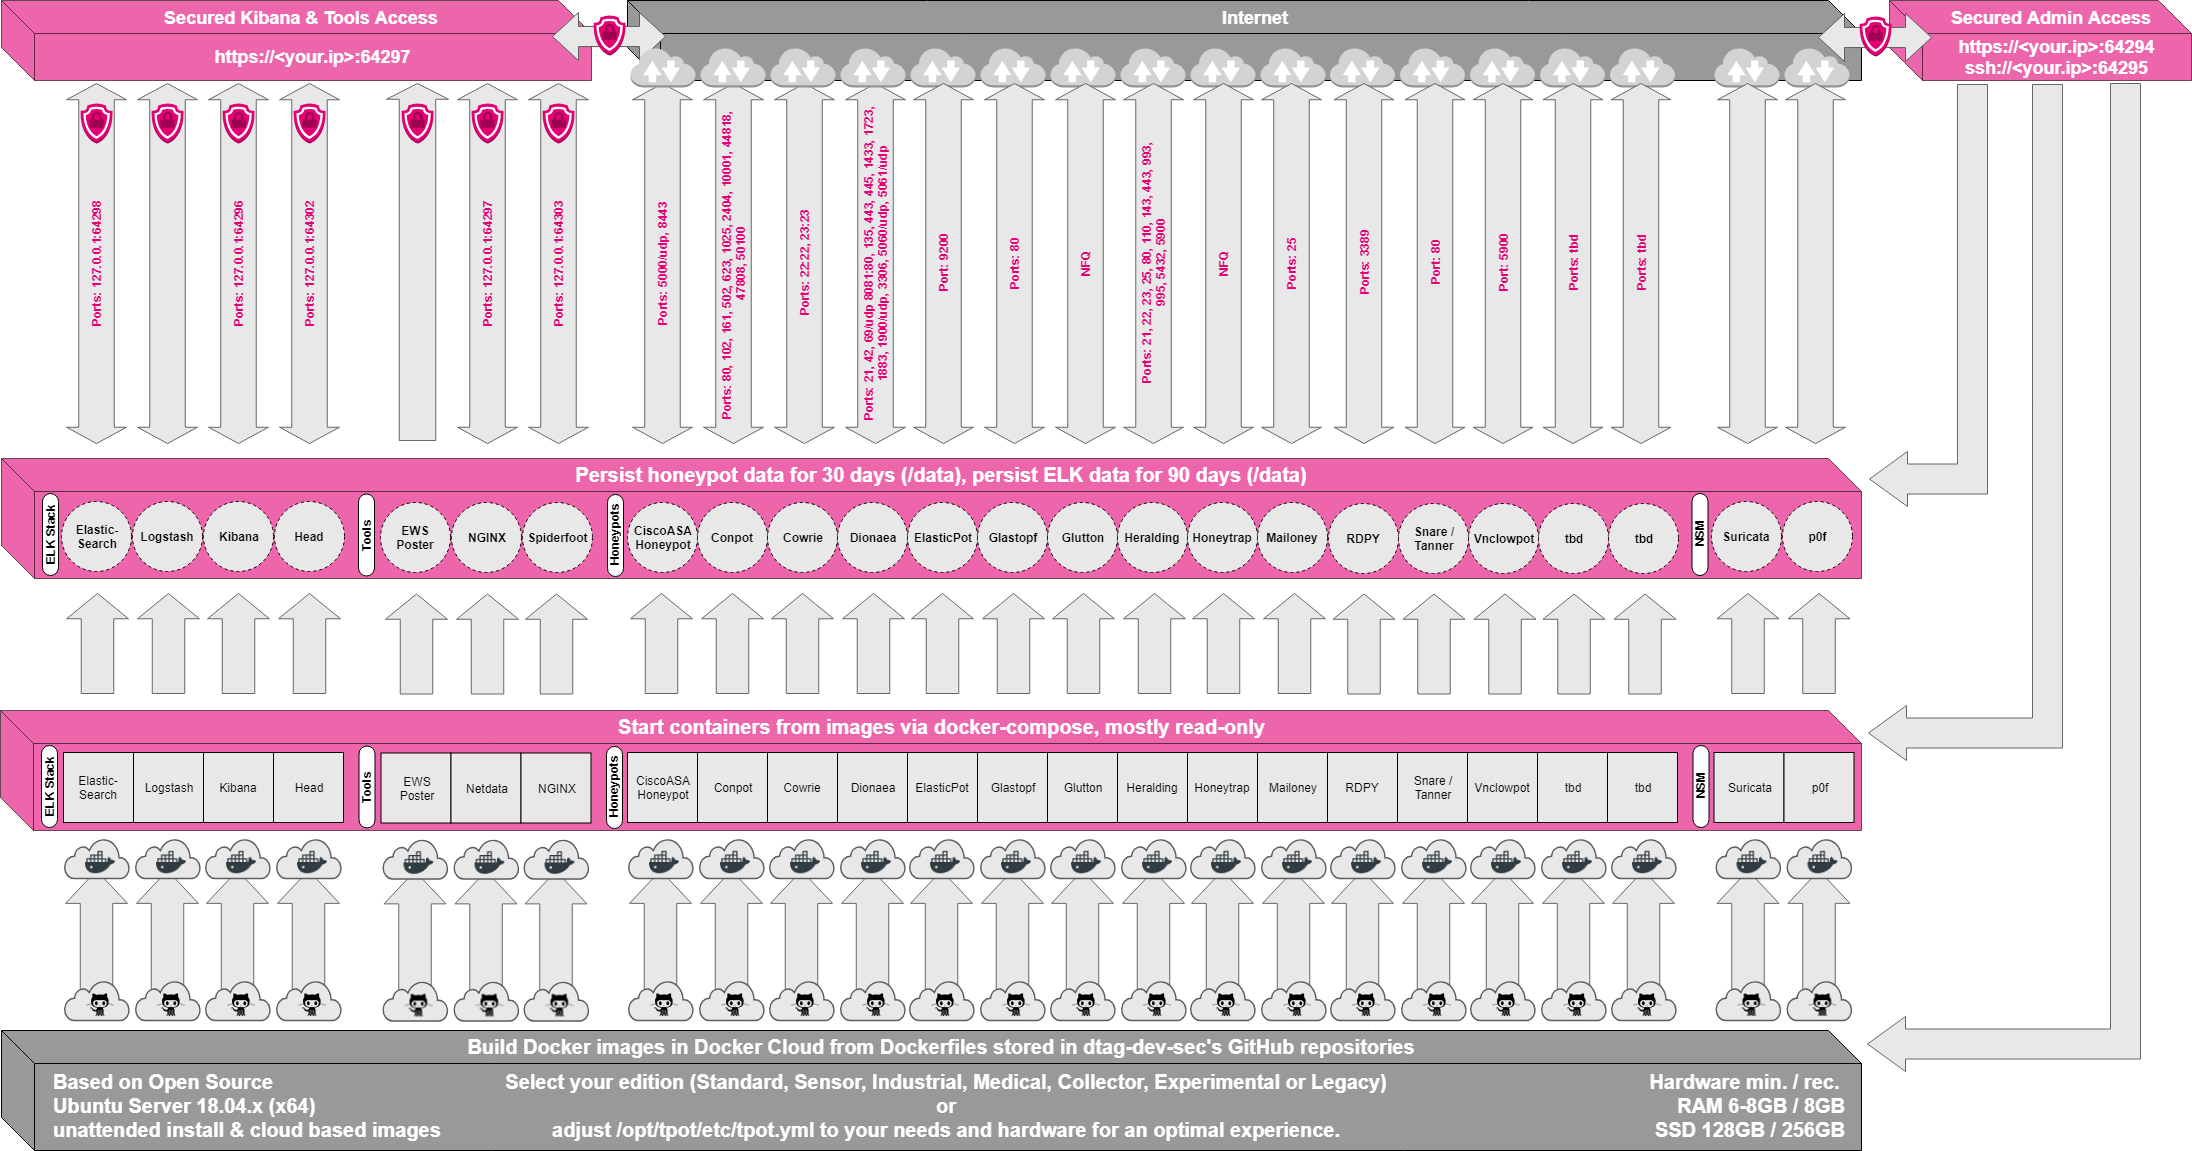
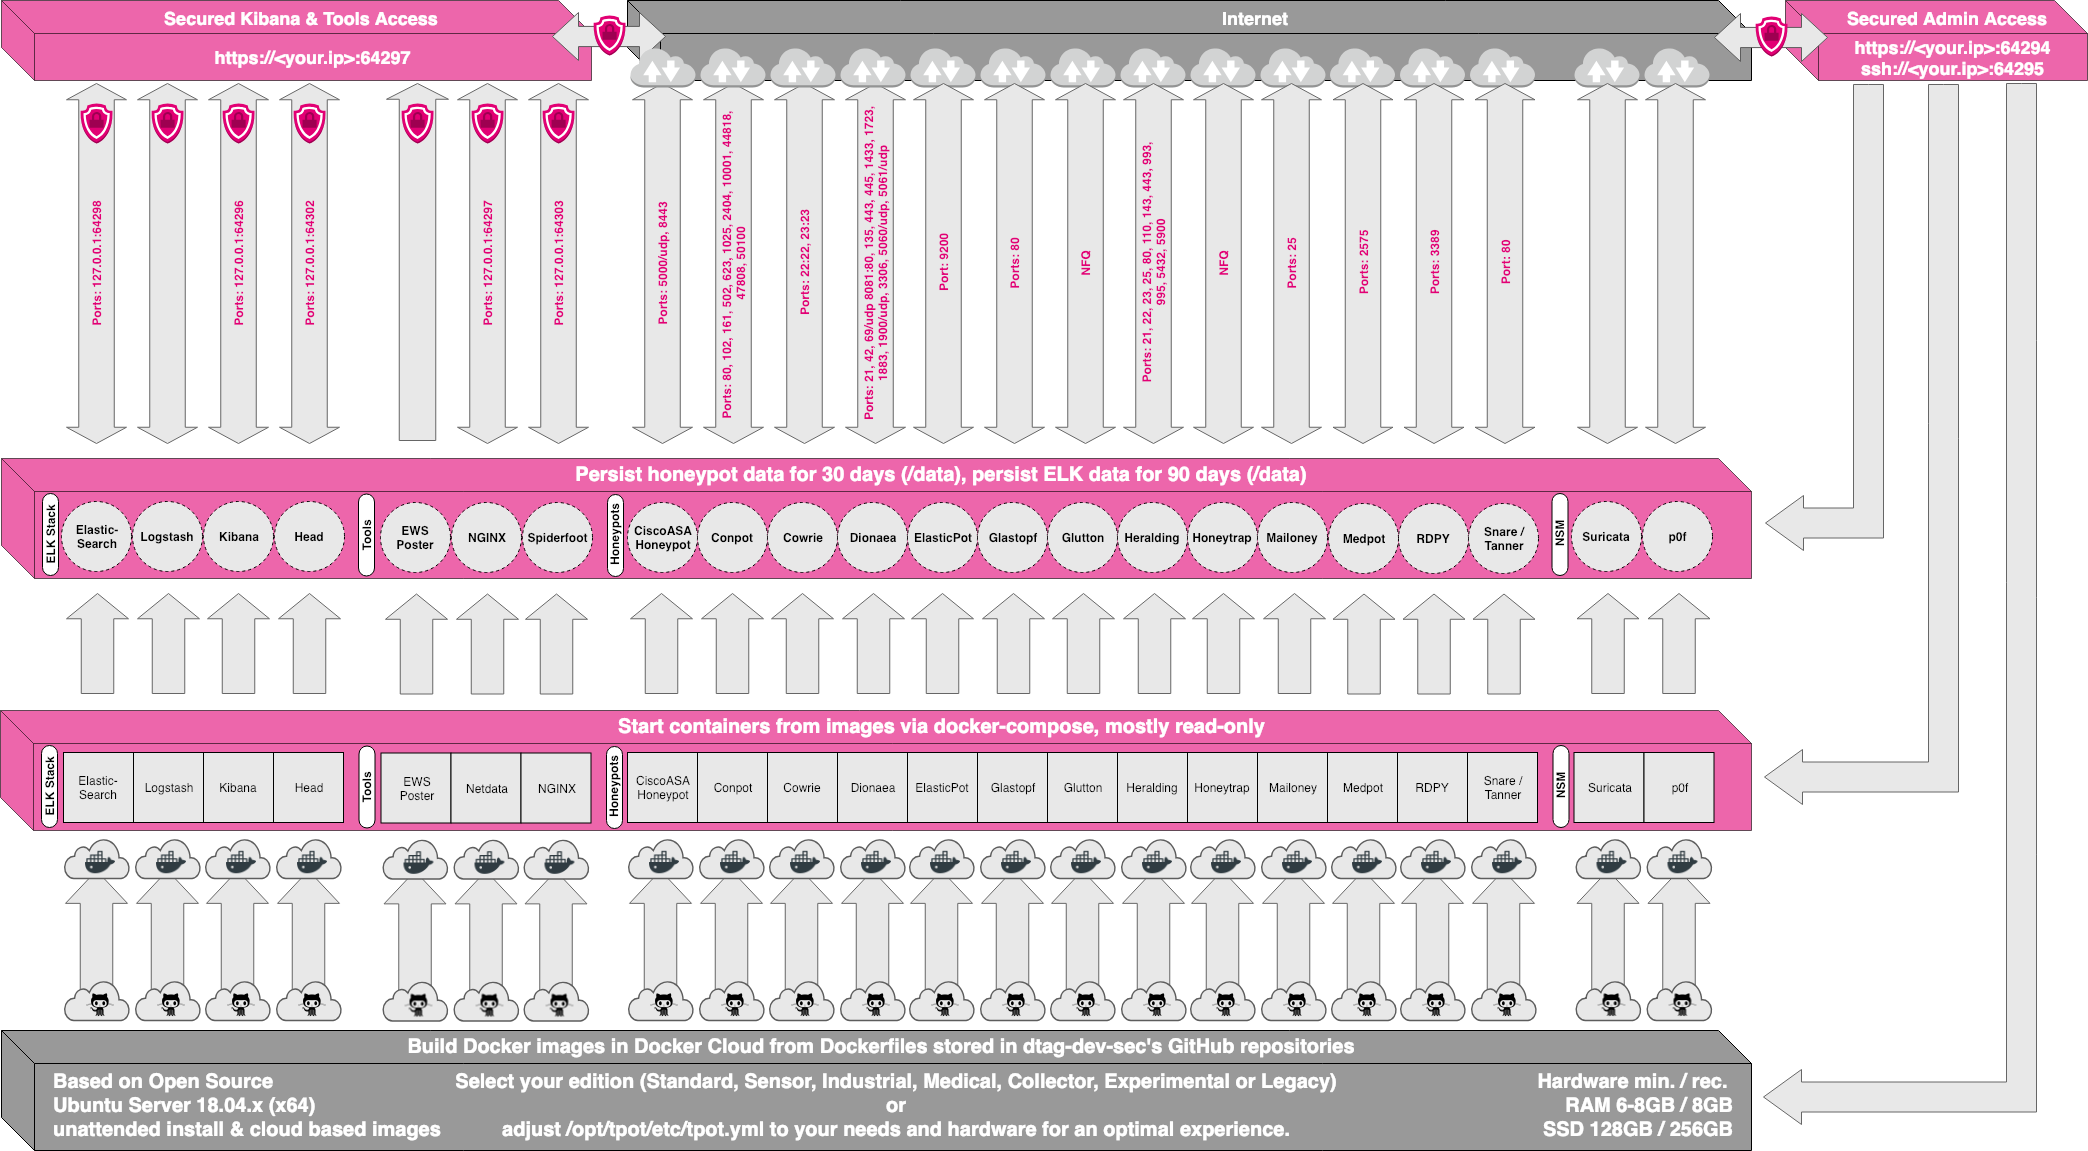
Update docs, installer, tweaking

Changed region(s): [[0.0, 0.0, 0.9962, 1.0], [0.0, 0.9123, 0.2179, 1.0], [0.7471, 0.5778, 0.7783, 0.6082]]

diff --git a/README.md b/README.md
@@ -1,6 +1,6 @@
-# T-Pot 18.10
+# T-Pot 18.11
 
-T-Pot 18.10 runs on the latest 18.04.x LTS Ubuntu Server Network Installer image, is based on
+T-Pot 18.11 runs on the latest 18.04.x LTS Ubuntu Server Network Installer image, is based on
 
 [docker](https://www.docker.com/), [docker-compose](https://docs.docker.com/compose/)
 
@@ -16,10 +16,10 @@ and includes dockerized versions of the following honeypots
 * [heralding](https://github.com/johnnykv/heralding),
 * [honeytrap](https://github.com/armedpot/honeytrap/),
 * [mailoney](https://github.com/awhitehatter/mailoney),
+* [medpot](https://github.com/schmalle/medpot),
 * [rdpy](https://github.com/citronneur/rdpy),
 * [snare](http://mushmush.org/),
-* [tanner](http://mushmush.org/),
-* [vnclowpot](https://github.com/magisterquis/vnclowpot)
+* [tanner](http://mushmush.org/)
 
 
 Furthermore we use the following tools
@@ -73,9 +73,10 @@ Furthermore we use the following tools
 <a name="changelog"></a>
 # Changelog
 - **New honeypots**
-	- *Ciscoasa* a low interaction honeypot for the Cisco ASA component capable of detecting CVE-2018-0101, a DoS and remote code execution vulnerability. 
-	- *Glutton* (experimental) is the all eating honeypot
+	- *Ciscoasa* a low interaction honeypot for the Cisco ASA component capable of detecting CVE-2018-0101, a DoS and remote code execution vulnerability.
+	- *Glutton* (NextGen) is the all eating honeypot
 	- *Heralding* a credentials catching honeypot.
+  - *Medpot* is a HL7 / FHIR honeypot.
 	- *Snare* is a web application honeypot sensor, is the successor of Glastopf. SNARE has feature parity with Glastopf and allows to convert existing web pages into attack surfaces.
 	- *Tanner* is SNARES' "brain". Every event is send from SNARE to TANNER, gets evaluated and TANNER decides how SNARE should respond to the client. This allows us to change the behaviour of many sensors on the fly. We are providing a TANNER instance for your use, but there is nothing stopping you from setting up your own instance.
 - **New tools**
@@ -85,7 +86,7 @@ Furthermore we use the following tools
 	- *multitail* (commandline) allows you to monitor logfiles and command output in multiple windows in a terminal, colorize, filter and merge.
 	- *tped.sh* (commandline) allows you to switch between T-Pot Editions after installation.
 - **Deprecated tools**
-	- *Netdata*, *Portainer* and *WeTTY* were superseded by *Cockpit* which is much more lightweight, perfectly well integrated into Ubuntu 18.04 LTS and of course comes with the same but a more basic feature set. 
+	- *Netdata*, *Portainer* and *WeTTY* were superseded by *Cockpit* which is much more lightweight, perfectly well integrated into Ubuntu 18.04 LTS and of course comes with the same but a more basic feature set.
 - **New Standard Installation**
         - The new standard installation is now running a whopping *14* honeypot instances.
 - **T-Pot Universal Installer**
@@ -111,7 +112,7 @@ Furthermore we use the following tools
 	- Docker images were mostly overhauled to tighten security even further
 	- Some of the honeypot configurations were modified to keep things fresh
 - **Update Feature**
-	- For the ones who like to live on the bleeding edge of T-Pot development there is now a update script available in `/opt/tpot/update.sh`. 
+	- For the ones who like to live on the bleeding edge of T-Pot development there is now a update script available in `/opt/tpot/update.sh`.
 	- This feature is now in beta and is mostly intended to provide you with the latest development advances without the need of reinstalling T-Pot.
 
 <a name="concept"></a>
@@ -132,10 +133,10 @@ In T-Pot we combine the dockerized honeypots ...
 * [heralding](https://github.com/johnnykv/heralding),
 * [honeytrap](https://github.com/armedpot/honeytrap/),
 * [mailoney](https://github.com/awhitehatter/mailoney),
+* [medpot](https://github.com/schmalle/medpot),
 * [rdpy](https://github.com/citronneur/rdpy),
 * [snare](http://mushmush.org/),
-* [tanner](http://mushmush.org/),
-* [vnclowpot](https://github.com/magisterquis/vnclowpot)
+* [tanner](http://mushmush.org/)
 
 ... with the following tools ...
 * [Cockpit](https://cockpit-project.org/running) for a lightweight, webui for docker, os, real-time performance monitoring and web terminal.
@@ -145,7 +146,7 @@ In T-Pot we combine the dockerized honeypots ...
 * [Spiderfoot](https://github.com/smicallef/spiderfoot) a open source intelligence automation tool.
 * [Suricata](http://suricata-ids.org/) a Network Security Monitoring engine.
 
-... to give you the best out-of-the-box experience possible and a easy-to-use multi-honeypot appliance. 
+... to give you the best out-of-the-box experience possible and a easy-to-use multi-honeypot appliance.
 
 ![Architecture](doc/architecture.png)
 
@@ -203,7 +204,7 @@ Depending on your installation type, whether you install on [real hardware](#har
 - Network via DHCP
 - A working, non-proxied, internet connection
 
-##### Experimental Installation
+##### NextGen Installation (Glutton instead of Honeytrap)
 - Honeypots: ciscoasa, conpot, cowrie, dionaea, elasticpot, glutton, heralding, mailoney, rdpy, snare, tanner and vnclowpot
 - Tools: cockpit, cyberchef, ELK, elasticsearch head, ewsposter, NGINX, spiderfoot, p0f and suricata
 
@@ -294,7 +295,7 @@ In some cases it is necessary to install Ubuntu Server 18.04 LTS on your own:
 
 While the T-Pot-Autoinstaller served us perfectly well in the past we decided to include the feature directly into T-Pot and its Universal Installer.
 
-Just follow these steps: 
+Just follow these steps:
 
 ```
 git clone https://github.com/dtag-dev-sec/tpotce
@@ -374,15 +375,19 @@ and **Kibana** will automagically load. The Kibana dashboard can be customized t
 We included some web based management tools to improve and ease up on your daily tasks.
 
 ![Cockpit Overview](doc/cockpit1.png)
+
 ![Cockpit Containers](doc/cockpit2.png)
+
 ![Cyberchef](doc/cyberchef.png)
+
 ![ES Head Plugin](doc/headplugin.png)
+
 ![Spiderfoot](doc/spiderfoot.png)
 
 
 <a name="maintenance"></a>
 ## Maintenance
-As mentioned before, the system was designed to be low maintenance. Basically, there is nothing you have to do but let it run.
+As mentioned before, the system is designed to be low maintenance. Basically, there is nothing you have to do but let it run.
 
 If you run into any problems, a reboot may fix it :bowtie:
 
@@ -445,10 +450,7 @@ The software that T-Pot is built on uses the following licenses.
 <br>GPLv3: [elasticpot](https://github.com/schmalle/ElasticPot), [ewsposter](https://github.com/dtag-dev-sec/ews/), [glastopf](https://github.com/glastopf/glastopf/blob/master/GPL), [rdpy](https://github.com/citronneur/rdpy/blob/master/LICENSE), [heralding](https://github.com/johnnykv/heralding/blob/master/LICENSE.txt), [snare](https://github.com/mushorg/snare/blob/master/LICENSE), [tanner](https://github.com/mushorg/snare/blob/master/LICENSE)
 <br>Apache 2 License: [cyberchef](https://github.com/gchq/CyberChef/blob/master/LICENSE), [elasticsearch](https://github.com/elasticsearch/elasticsearch/blob/master/LICENSE.txt), [logstash](https://github.com/elasticsearch/logstash/blob/master/LICENSE), [kibana](https://github.com/elasticsearch/kibana/blob/master/LICENSE.md), [docker](https://github.com/docker/docker/blob/master/LICENSE), [elasticsearch-head](https://github.com/mobz/elasticsearch-head/blob/master/LICENCE)
 <br>MIT license: [ciscoasa](https://github.com/Cymmetria/ciscoasa_honeypot/blob/master/LICENSE), [ctop](https://github.com/bcicen/ctop/blob/master/LICENSE), [glutton](https://github.com/mushorg/glutton/blob/master/LICENSE)
-<br>zlib License: [vnclowpot](https://github.com/magisterquis/vnclowpot/blob/master/LICENSE)
-<br>[cowrie](https://github.com/micheloosterhof/cowrie/blob/master/LICENSE.md)
-<br>[mailoney](https://github.com/awhitehatter/mailoney)
-<br>[Ubuntu licensing](http://www.ubuntu.com/about/about-ubuntu/licensing)
+<br> Other: [cowrie](https://github.com/micheloosterhof/cowrie/blob/master/LICENSE.md), [mailoney](https://github.com/awhitehatter/mailoney), [Ubuntu licensing](http://www.ubuntu.com/about/about-ubuntu/licensing)
 
 <a name="credits"></a>
 # Credits
@@ -473,6 +475,7 @@ Without open source and the fruitful development community we are proud to be a 
 * [kibana](https://github.com/elastic/kibana/graphs/contributors)
 * [logstash](https://github.com/elastic/logstash/graphs/contributors)
 * [mailoney](https://github.com/awhitehatter/mailoney)
+* [medpot](https://github.com/schmalle/medpot/graphs/contributors)
 * [p0f](http://lcamtuf.coredump.cx/p0f3/)
 * [rdpy](https://github.com/citronneur/rdpy)
 * [spiderfoot](https://github.com/smicallef/spiderfoot)
@@ -480,7 +483,6 @@ Without open source and the fruitful development community we are proud to be a 
 * [tanner](https://github.com/mushorg/tanner/graphs/contributors)
 * [suricata](https://github.com/inliniac/suricata/graphs/contributors)
 * [ubuntu](http://www.ubuntu.com/)
-* [vnclowpot](https://github.com/magisterquis/vnclowpot)
 
 ### The following companies and organizations
 * [canonical](http://www.canonical.com/)
@@ -498,4 +500,4 @@ We will be releasing a new version of T-Pot about every 6-12 months.
 <a name="funfact"></a>
 # Fun Fact
 
-In an effort of saving the environment we are now brewing our own Mate Ice Tea and consumed 136 liters so far for the T-Pot 18.10 development 😇
+In an effort of saving the environment we are now brewing our own Mate Ice Tea and consumed 235 liters so far for the T-Pot 18.11 development 😇
